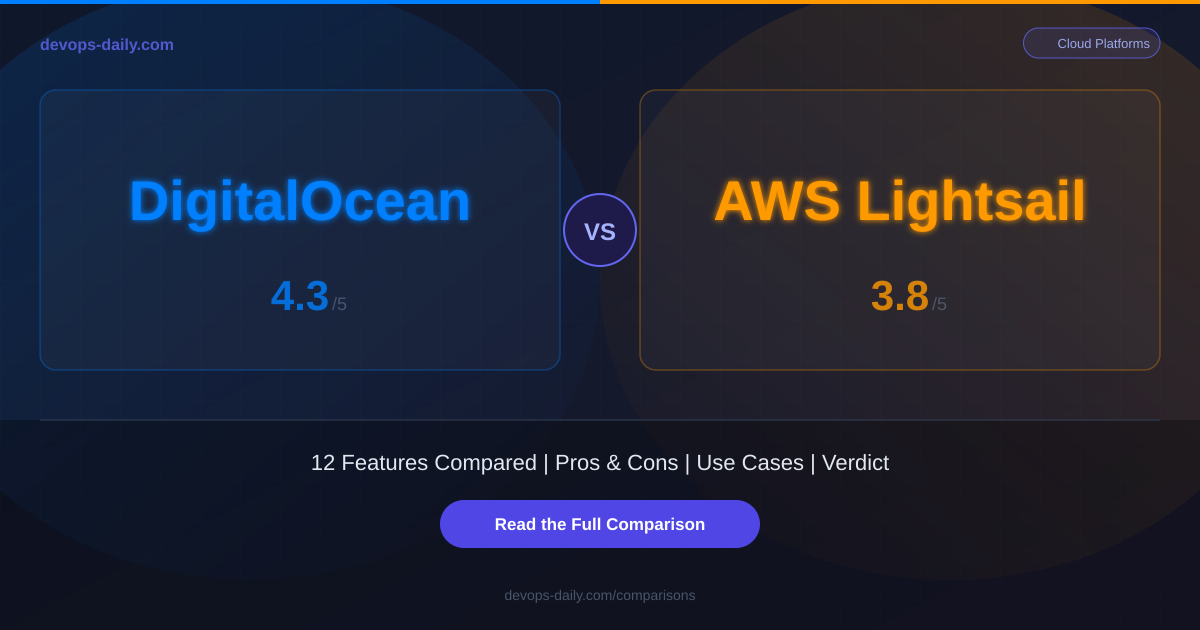
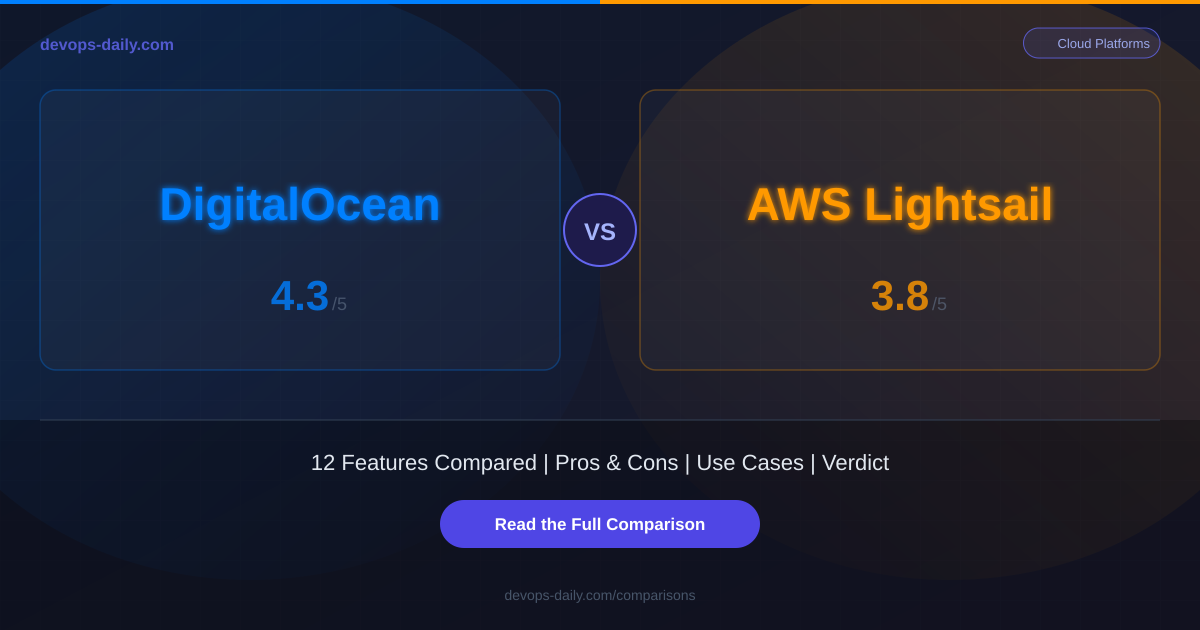
Fix OG image text overflow and color contrast
- Auto-scale font size based on tool name length (56px to 32px)
- Ensure dark colors (Vercel #000000) get lightened for visibility
- Ensure washed-out colors (Vault #FFEC6E, Bun #FBF0DF) get more saturated

Changed region(s): [[0.5858, 0.2714, 0.925, 0.3619], [0.0925, 0.2714, 0.4008, 0.3921]]

diff --git a/scripts/generate-comparison-og.ts b/scripts/generate-comparison-og.ts
@@ -28,12 +28,35 @@ function generateSVG(comparison: Comparison): string {
   const toolBName = escapeXml(comparison.toolB.name);
   const category = escapeXml(comparison.category);
   const featureCount = comparison.features.length;
-  const toolAColor = comparison.toolA.color;
-  const toolBColor = comparison.toolB.color;
-  const rgbA = hexToRgb(toolAColor);
-  const rgbB = hexToRgb(toolBColor);
 
-  // Just use the verdict scores
+  // Ensure colors have enough contrast against dark background
+  function ensureContrast(hex: string): string {
+    const rgb = hexToRgb(hex);
+    const luminance = (0.299 * rgb.r + 0.587 * rgb.g + 0.114 * rgb.b);
+    // If too dark (like #000000 for Vercel), lighten it
+    if (luminance < 80) return '#a0a0ff';
+    // If too bright/washed out (like #FFEC6E, #FBF0DF), make it more saturated
+    if (luminance > 200) {
+      return `rgb(${Math.min(255, rgb.r)}, ${Math.max(0, rgb.g - 40)}, ${Math.max(0, rgb.b - 80)})`;
+    }
+    return hex;
+  }
+
+  const toolAColor = ensureContrast(comparison.toolA.color);
+  const toolBColor = ensureContrast(comparison.toolB.color);
+  const rgbA = hexToRgb(comparison.toolA.color);
+  const rgbB = hexToRgb(comparison.toolB.color);
+
+  // Auto-scale font size for long tool names
+  function fontSize(name: string): number {
+    if (name.length > 20) return 32;
+    if (name.length > 15) return 38;
+    if (name.length > 10) return 46;
+    return 56;
+  }
+
+  const fontSizeA = fontSize(comparison.toolA.name);
+  const fontSizeB = fontSize(comparison.toolB.name);
 
   return `<svg width="1200" height="630" xmlns="http://www.w3.org/2000/svg">
   <defs>
@@ -84,13 +107,13 @@ function generateSVG(comparison: Comparison): string {
 
   <!-- Tool A card -->
   <rect x="40" y="90" width="520" height="280" rx="16" fill="rgba(255,255,255,0.03)" stroke="rgba(${rgbA.r},${rgbA.g},${rgbA.b},0.3)" stroke-width="1.5"/>
-  <text x="300" y="220" font-family="Arial, Helvetica, sans-serif" font-size="56" font-weight="bold" fill="${toolAColor}" text-anchor="middle" filter="url(#glow)">${toolAName}</text>
+  <text x="300" y="220" font-family="Arial, Helvetica, sans-serif" font-size="${fontSizeA}" font-weight="bold" fill="${toolAColor}" text-anchor="middle" filter="url(#glow)">${toolAName}</text>
   <text x="300" y="310" font-family="Arial, Helvetica, sans-serif" font-size="42" font-weight="bold" fill="${toolAColor}" text-anchor="middle" opacity="0.8">${comparison.verdict.toolAScore}</text>
   <text x="332" y="310" font-family="Arial, Helvetica, sans-serif" font-size="18" fill="#64748b" opacity="0.6">/5</text>
 
   <!-- Tool B card -->
   <rect x="640" y="90" width="520" height="280" rx="16" fill="rgba(255,255,255,0.03)" stroke="rgba(${rgbB.r},${rgbB.g},${rgbB.b},0.3)" stroke-width="1.5"/>
-  <text x="900" y="220" font-family="Arial, Helvetica, sans-serif" font-size="56" font-weight="bold" fill="${toolBColor}" text-anchor="middle" filter="url(#glow)">${toolBName}</text>
+  <text x="900" y="220" font-family="Arial, Helvetica, sans-serif" font-size="${fontSizeB}" font-weight="bold" fill="${toolBColor}" text-anchor="middle" filter="url(#glow)">${toolBName}</text>
   <text x="900" y="310" font-family="Arial, Helvetica, sans-serif" font-size="42" font-weight="bold" fill="${toolBColor}" text-anchor="middle" opacity="0.8">${comparison.verdict.toolBScore}</text>
   <text x="932" y="310" font-family="Arial, Helvetica, sans-serif" font-size="18" fill="#64748b" opacity="0.6">/5</text>
 
